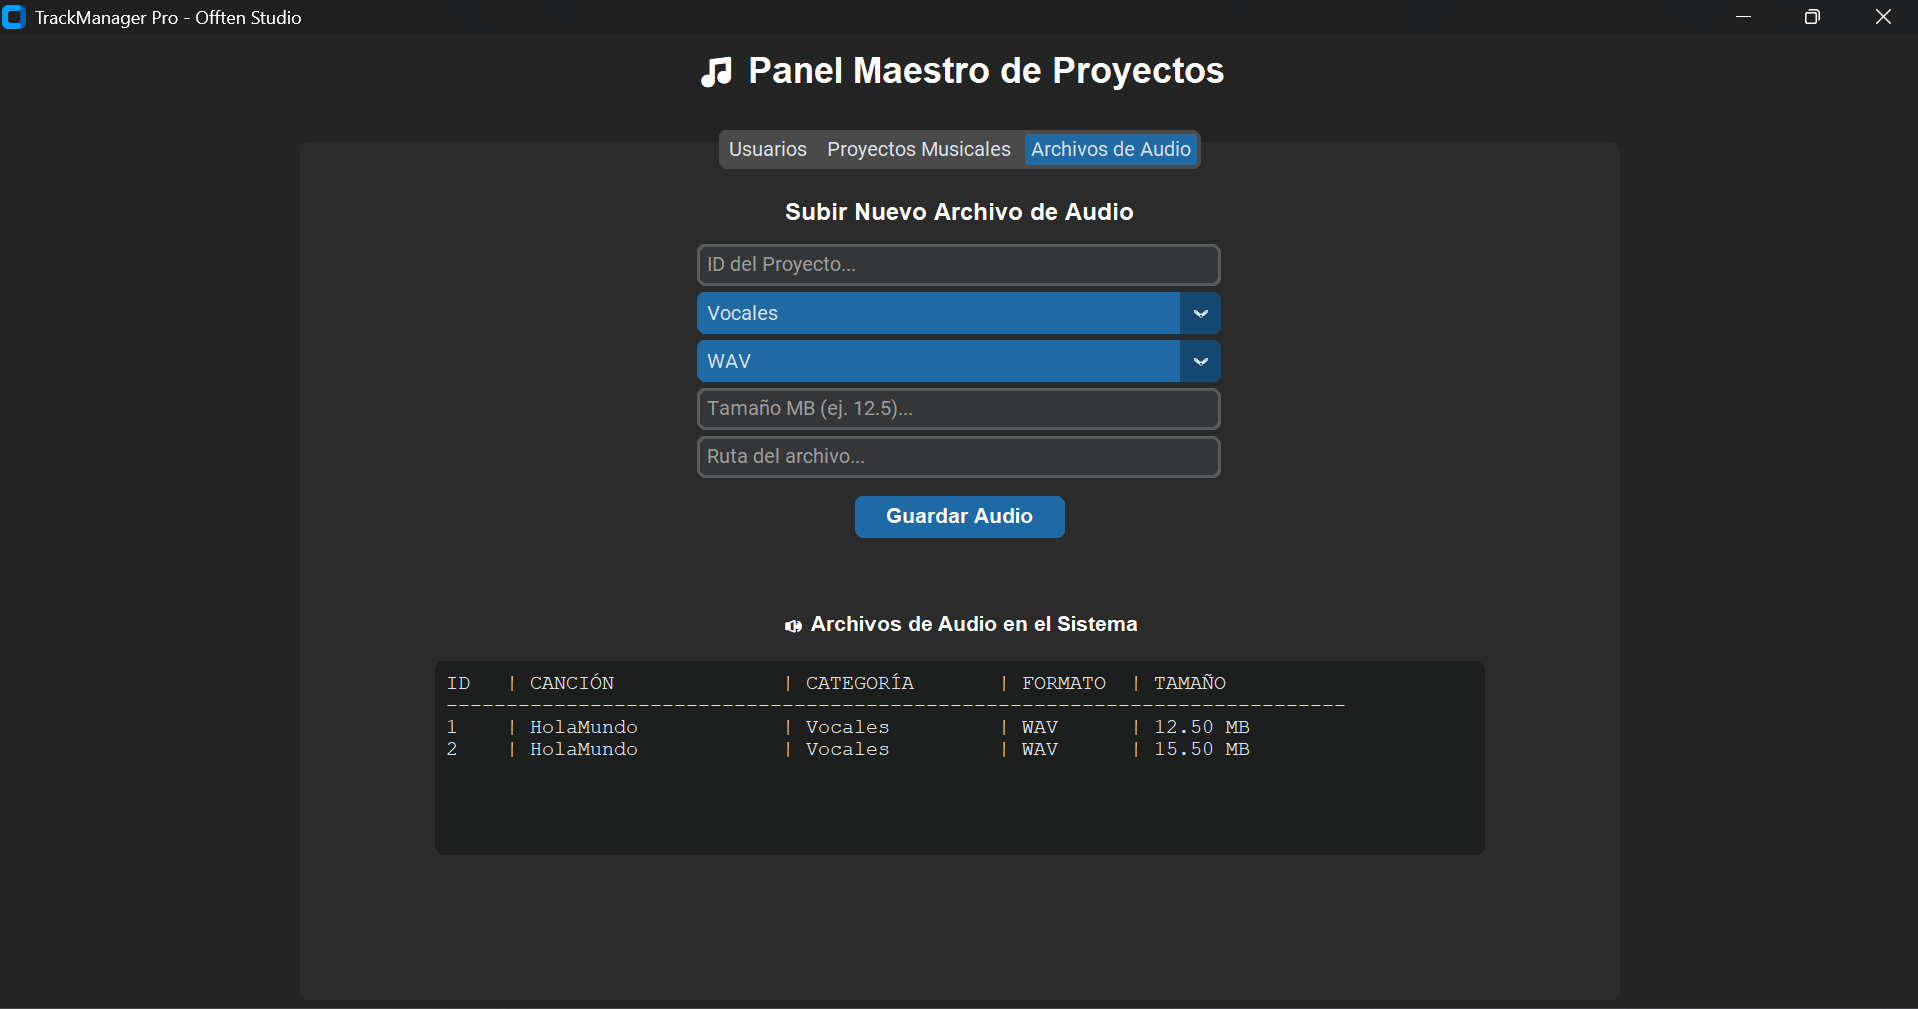
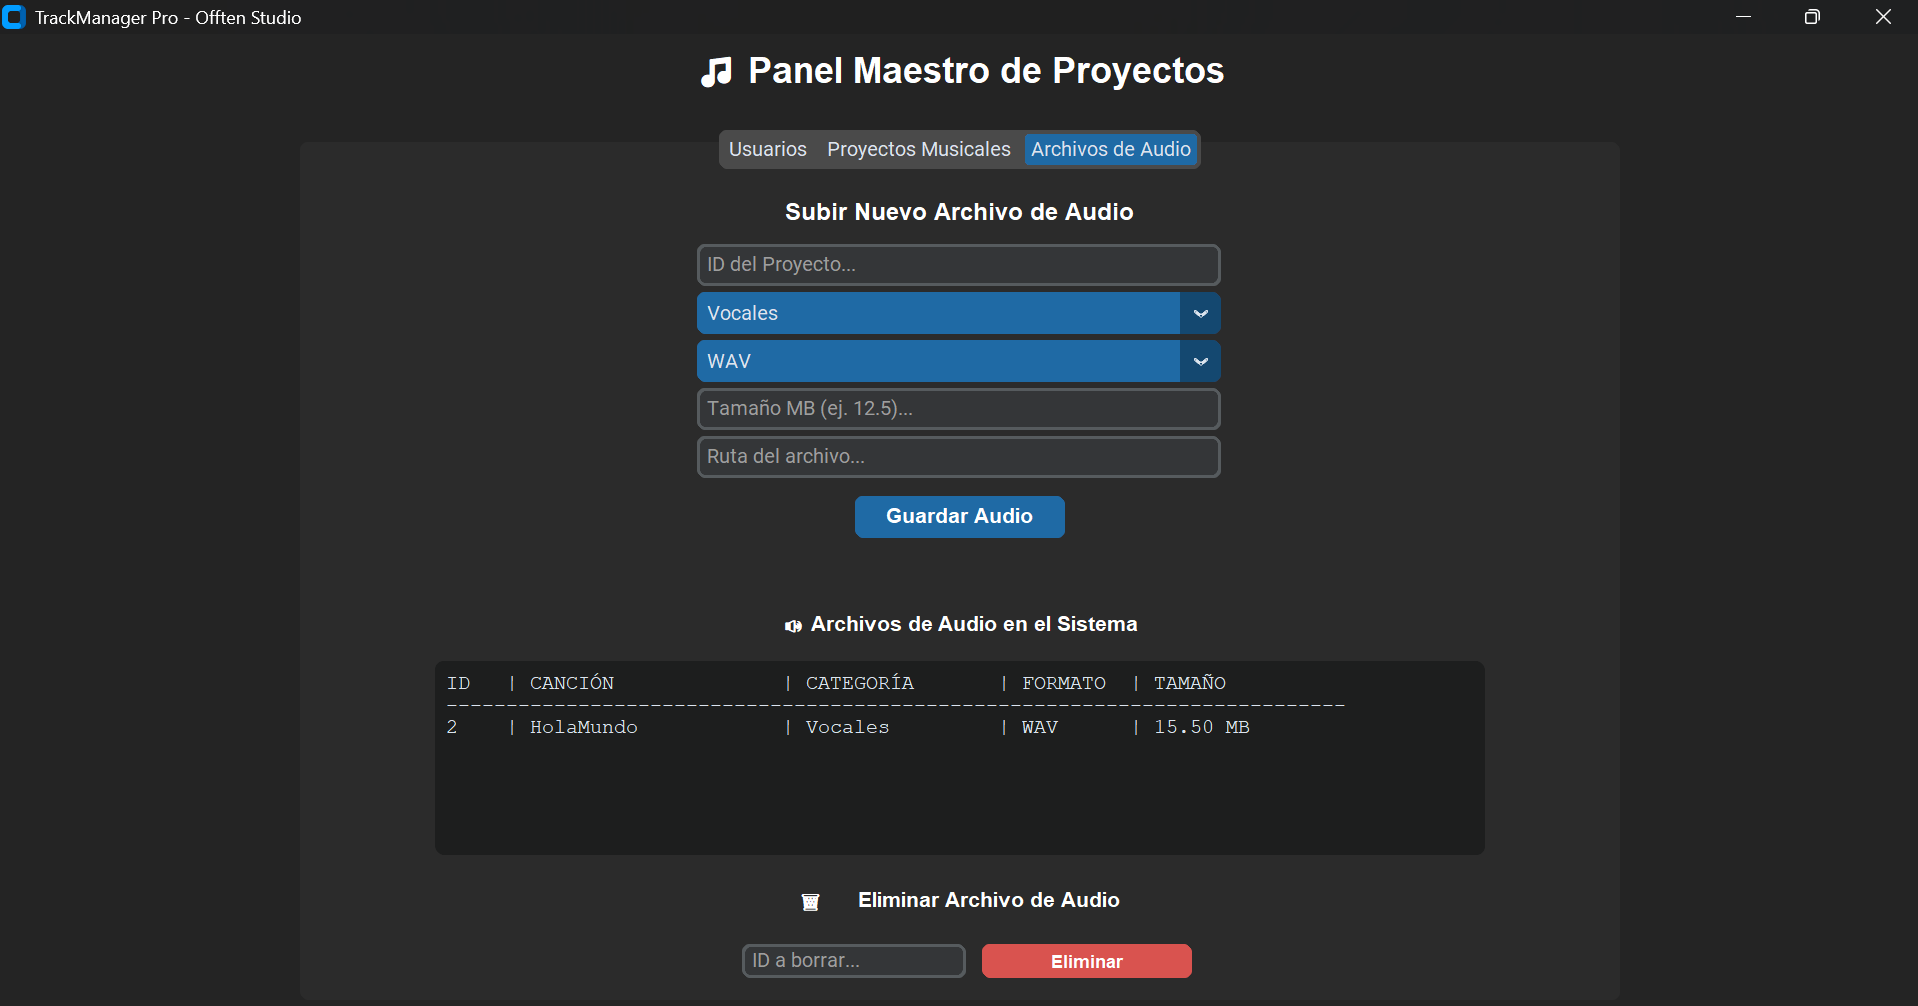
Versión final v1.2: Añadido sistema de búsqueda y filtros por género

diff --git a/main.py b/main.py
@@ -10,14 +10,14 @@ ctk.set_default_color_theme("blue")
 
 # 2. Ventana principal
 ventana = ctk.CTk()
-ventana.geometry("950x850") # Aumentamos un poco la altura para el nuevo panel
+ventana.geometry("950x880") 
 ventana.title("TrackManager Pro - Offten Studio")
 
 titulo_principal = ctk.CTkLabel(ventana, text="🎵 Panel Maestro de Proyectos", font=("Arial", 24, "bold"), text_color="#FFFFFF")
 titulo_principal.pack(pady=10) 
 
 # --- PESTAÑAS ---
-panel_pestanas = ctk.CTkTabview(ventana, width=880, height=700)
+panel_pestanas = ctk.CTkTabview(ventana, width=880, height=750)
 panel_pestanas.pack(pady=5, padx=20)
 
 tab_usuarios = panel_pestanas.add("Usuarios")
@@ -25,7 +25,7 @@ tab_proyectos = panel_pestanas.add("Proyectos Musicales")
 tab_audios = panel_pestanas.add("Archivos de Audio")
 
 # ================================================================
-# PESTAÑA 1: USUARIOS (Registro y Lista)
+# PESTAÑA 1: USUARIOS
 # ================================================================
 sub_usu = ctk.CTkLabel(tab_usuarios, text="Registro de Nuevo Usuario", font=("Arial", 16, "bold"), text_color="#FFFFFF")
 sub_usu.pack(pady=5)
@@ -65,9 +65,8 @@ def cargar_usuarios_gui():
         bd.desconectar()
     caja_usuarios.configure(state="disabled")
 
-
 # ================================================================
-# PESTAÑA 2: PROYECTOS (Registro, Lista Relacional y Update)
+# PESTAÑA 2: PROYECTOS (Registro, Update, Lista y Búsqueda)
 # ================================================================
 sub_proy = ctk.CTkLabel(tab_proyectos, text="Crear Nueva Maqueta", font=("Arial", 16, "bold"), text_color="#FFFFFF")
 sub_proy.pack(pady=5)
@@ -96,26 +95,50 @@ boton_proy.pack(pady=10)
 etiqueta_estado_proy = ctk.CTkLabel(tab_proyectos, text="", font=("Arial", 12))
 etiqueta_estado_proy.pack()
 
+# --- NUEVA SECCIÓN: BARRA DE BÚSQUEDA Y FILTROS ---
+marco_filtro = ctk.CTkFrame(tab_proyectos, fg_color="transparent")
+marco_filtro.pack(pady=5)
+
+ctk.CTkLabel(marco_filtro, text="🔍 Filtrar por Género:", font=("Arial", 12, "bold"), text_color="#FFFFFF").pack(side="left", padx=5)
+op_filtro_gen = ctk.CTkOptionMenu(marco_filtro, values=["Todos", "Pop", "Dance-Pop", "Urbano", "Otro"], width=130)
+op_filtro_gen.pack(side="left", padx=5)
+
+def aplicar_filtro_gui():
+    genero_seleccionado = op_filtro_gen.get()
+    cargar_proyectos_gui(filtro_genero=genero_seleccionado)
+
+boton_filtrar = ctk.CTkButton(marco_filtro, text="Filtrar", font=("Arial", 12, "bold"), text_color="#FFFFFF", width=80, command=aplicar_filtro_gui)
+boton_filtrar.pack(side="left", padx=5)
+
 caja_proyectos = ctk.CTkTextbox(tab_proyectos, width=700, height=130, font=("Courier New", 13), wrap="none")
 caja_proyectos.pack(pady=5)
 
-def cargar_proyectos_gui():
+# Modificamos la función para que reciba el filtro (por defecto "Todos")
+def cargar_proyectos_gui(filtro_genero="Todos"):
     caja_proyectos.configure(state="normal"); caja_proyectos.delete("1.0", "end")
     bd = ConexionBD(); con = bd.conectar()
     if con:
         cursor = con.cursor()
-        cursor.execute("SELECT p.id_proyecto, p.titulo_temp, p.genero, p.fase_actual, u.correo FROM proyectos p INNER JOIN usuarios u ON p.id_usuario = u.id_usuario")
+        if filtro_genero == "Todos":
+            sql = "SELECT p.id_proyecto, p.titulo_temp, p.genero, p.fase_actual, u.correo FROM proyectos p INNER JOIN usuarios u ON p.id_usuario = u.id_usuario"
+            cursor.execute(sql)
+        else:
+            # Aquí aplicamos el poder de la cláusula WHERE
+            sql = "SELECT p.id_proyecto, p.titulo_temp, p.genero, p.fase_actual, u.correo FROM proyectos p INNER JOIN usuarios u ON p.id_usuario = u.id_usuario WHERE p.genero = %s"
+            cursor.execute(sql, (filtro_genero,))
+            
         regs = cursor.fetchall()
         caja_proyectos.insert("end", f"{'ID':<4} | {'TÍTULO CANCIÓN':<20} | {'GÉNERO':<12} | {'FASE ACTUAL':<18} | {'DUEÑO'}\n" + "-"*85 + "\n")
-        for f in regs: caja_proyectos.insert("end", f"{f[0]:<4} | {f[1]:<20} | {f[2]:<12} | {f[3]:<18} | {f[4]}\n")
+        
+        if not regs:
+            caja_proyectos.insert("end", f"No hay canciones de género '{filtro_genero}' registradas.\n")
+        else:
+            for f in regs: caja_proyectos.insert("end", f"{f[0]:<4} | {f[1]:<20} | {f[2]:<12} | {f[3]:<18} | {f[4]}\n")
         bd.desconectar()
     caja_proyectos.configure(state="disabled")
 
-boton_actualizar_proy = ctk.CTkButton(tab_proyectos, text="🔄 Actualizar Lista", font=("Arial", 12), command=cargar_proyectos_gui)
-boton_actualizar_proy.pack(pady=5)
-
-# --- NUEVA SECCIÓN: ACTUALIZAR FASE (UPDATE) ---
-ctk.CTkLabel(tab_proyectos, text="🎚️ Actualizar Estado / Fase de la Canción", font=("Arial", 14, "bold"), text_color="#FFFFFF").pack(pady=10)
+# --- ACTUALIZAR FASE (UPDATE) ---
+ctk.CTkLabel(tab_proyectos, text="🎚️ Actualizar Estado / Fase de la Canción", font=("Arial", 14, "bold"), text_color="#FFFFFF").pack(pady=5)
 
 marco_fase = ctk.CTkFrame(tab_proyectos, fg_color="transparent")
 marco_fase.pack(pady=2)
@@ -129,30 +152,24 @@ op_fases_estudio.pack(side="left", padx=5)
 def actualizar_fase_gui():
     id_txt = en_id_fase.get()
     nueva_fase = op_fases_estudio.get()
-    
     if not id_txt.strip(): return
-    try:
-        id_p = int(id_txt)
+    try: id_p = int(id_txt)
     except ValueError: return
 
     bd = ConexionBD(); con = bd.conectar()
     if con:
-        # Instanciamos un objeto temporal para usar el método UPDATE
         proy_temp = Proyecto(id_usuario=0, titulo_temp="", genero="")
         exito = proy_temp.actualizar_fase(con, id_p, nueva_fase)
         bd.desconectar()
-        
         if exito:
             etiqueta_estado_proy.configure(text=f"✨ ¡Canción ID {id_p} movida a '{nueva_fase}'!", text_color="#FFFFFF")
-            en_id_fase.delete(0, 'end')
-            cargar_proyectos_gui() # Recarga la lista para ver el cambio reflejado
+            en_id_fase.delete(0, 'end'); cargar_proyectos_gui(op_filtro_gen.get())
 
 boton_fase = ctk.CTkButton(marco_fase, text="Actualizar Estado", font=("Arial", 12, "bold"), text_color="#FFFFFF", command=actualizar_fase_gui)
 boton_fase.pack(side="left", padx=5)
 
-
 # ================================================================
-# PESTAÑA 3: AUDIOS (Registro, Lista Relacional y Delete)
+# PESTAÑA 3: AUDIOS 
 # ================================================================
 sub_aud = ctk.CTkLabel(tab_audios, text="Subir Nuevo Archivo de Audio", font=("Arial", 16, "bold"), text_color="#FFFFFF")
 sub_aud.pack(pady=5)
@@ -228,10 +245,9 @@ def eliminar_audio_gui():
 boton_eliminar = ctk.CTkButton(marco_eliminar, text="Eliminar", font=("Arial", 12, "bold"), text_color="#FFFFFF", fg_color="#D9534F", hover_color="#C9302C", command=eliminar_audio_gui)
 boton_eliminar.pack(side="left")
 
-
 # Disparadores iniciales
 ventana.after(100, cargar_usuarios_gui)
-ventana.after(150, cargar_proyectos_gui)
+ventana.after(150, cargar_proyectos_gui) # Por defecto arranca en "Todos"
 ventana.after(200, cargar_audios_gui)
 
 if __name__ == "__main__":